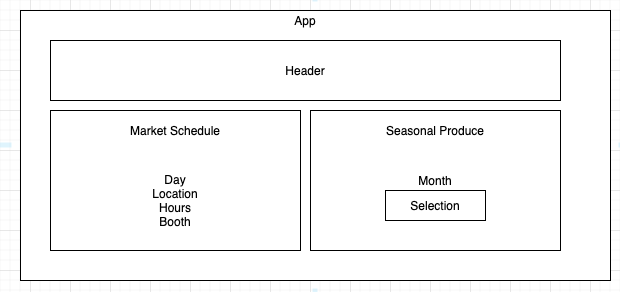
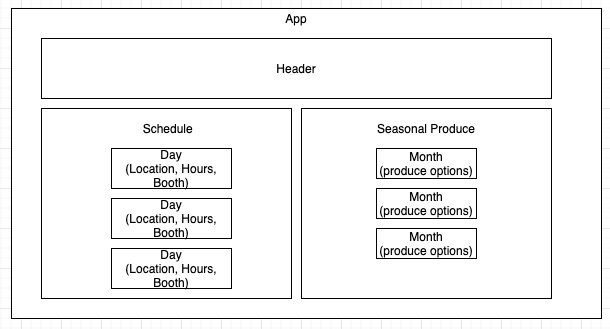
Add schedule and day components and update README.md planning image

Changed region(s): [[0.0, 0.0, 1.0, 1.0]]

diff --git a/src/components/Schedule.js b/src/components/Schedule.js
@@ -1,8 +1,59 @@
 import React from 'react';
+import Day from './Day';
+
+const marketSchedule = [  
+  {  
+     day: "Sunday",
+     location: "Lents International",
+     hours: "9:00am - 2:00pm",
+     booth: "4A"
+  },
+  {  
+     day: "Monday",
+     location: "Pioneer Courthouse Square",
+     hours: "10:00am - 2:00pm",
+     booth: "7C"
+  },
+  {  
+     day: "Tuesday",
+     location: "Hillsboro",
+     hours: "5:00pm - 8:30pm",
+     booth: "1F"
+  },
+  {  
+     day: "Wednesday",
+     location: "Shemanski Park",
+     hours: "10:00am - 2:00pm",
+     booth: "3E"
+  },
+  {  
+     day: "Thursday",
+     location: "Northwest Portland",
+     hours: "2:00pm - 6:00pm",
+     booth: "6D"
+  },
+  {  
+     day: "Saturday",
+     location: "Beaverton",
+     hours: "10:00am - 1:30pm",
+     booth: "9G"
+  }
+ ];
 
 function Schedule(){
   return(
-    <h3>Weekly Schedule</h3>
+    <React.Fragment>
+      <h3>Weekly Schedule</h3>
+      {marketSchedule.map((day, index) => 
+        <Day 
+          name={day.day}
+          location={day.location}
+          hours={day.hours}
+          booth={day.booth}
+          key={index}
+        />
+      )}
+    </React.Fragment>
   );
 }
 

diff --git a/src/components/Day.js b/src/components/Day.js
@@ -1,0 +1,23 @@
+import React from 'react';
+import PropTypes from 'prop-types';
+
+
+function Day(props){
+  return(
+    <React.Fragment>
+      <h4>{props.name}</h4>
+      <p><b>Farmer's Market:</b> {props.location}</p>
+      <p><b>Hours:</b>  {props.hours}</p>
+      <p><b>Booth:</b>  {props.booth}</p>
+    </React.Fragment>
+  );
+}
+
+Day.propTypes = {
+  name: PropTypes.string,
+  location: PropTypes.string,
+  hours: PropTypes.string,
+  booth: PropTypes.string,
+}
+
+export default Day;
